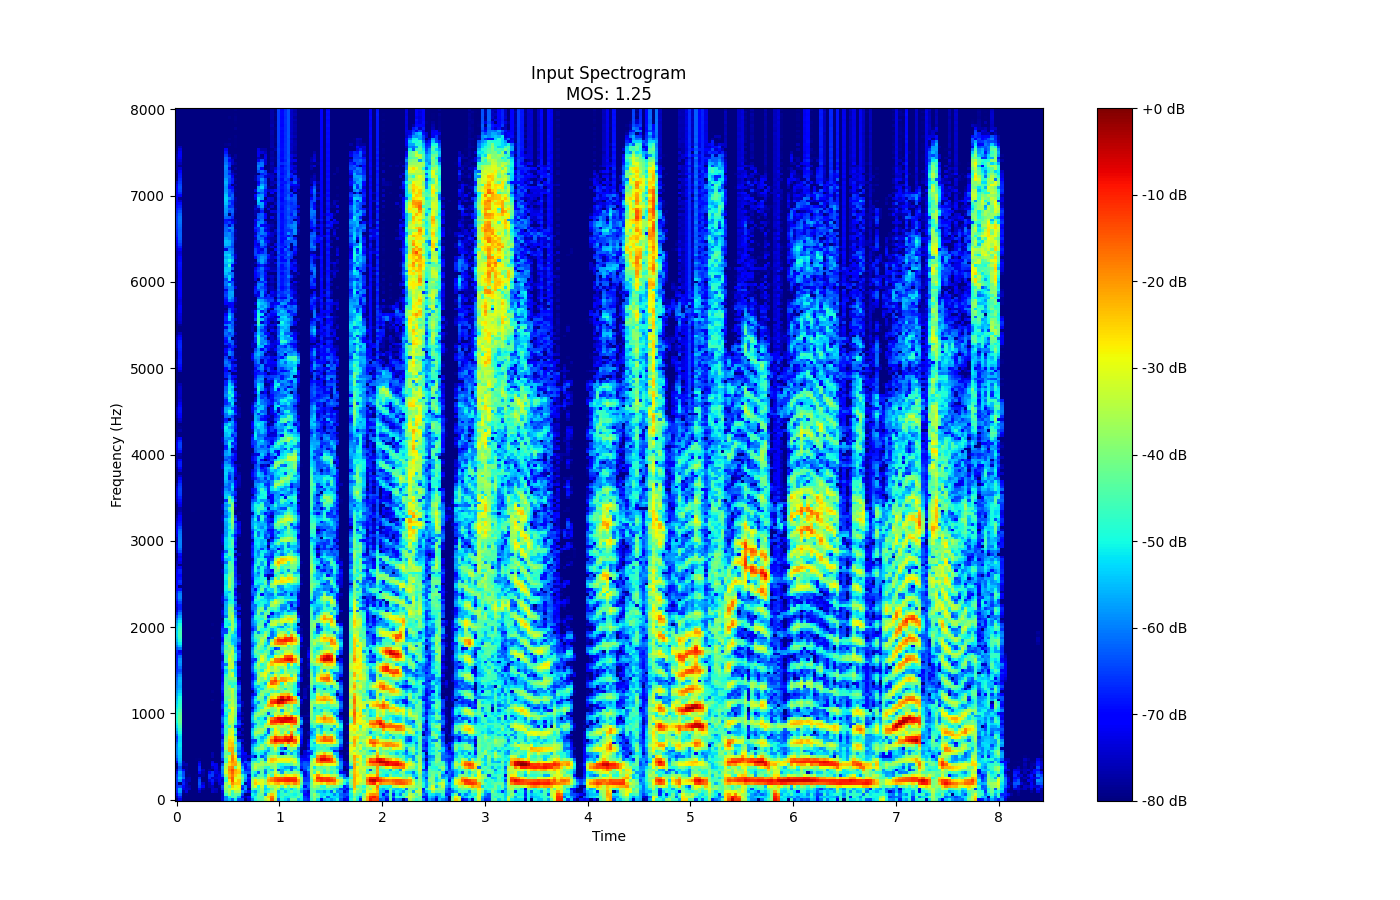
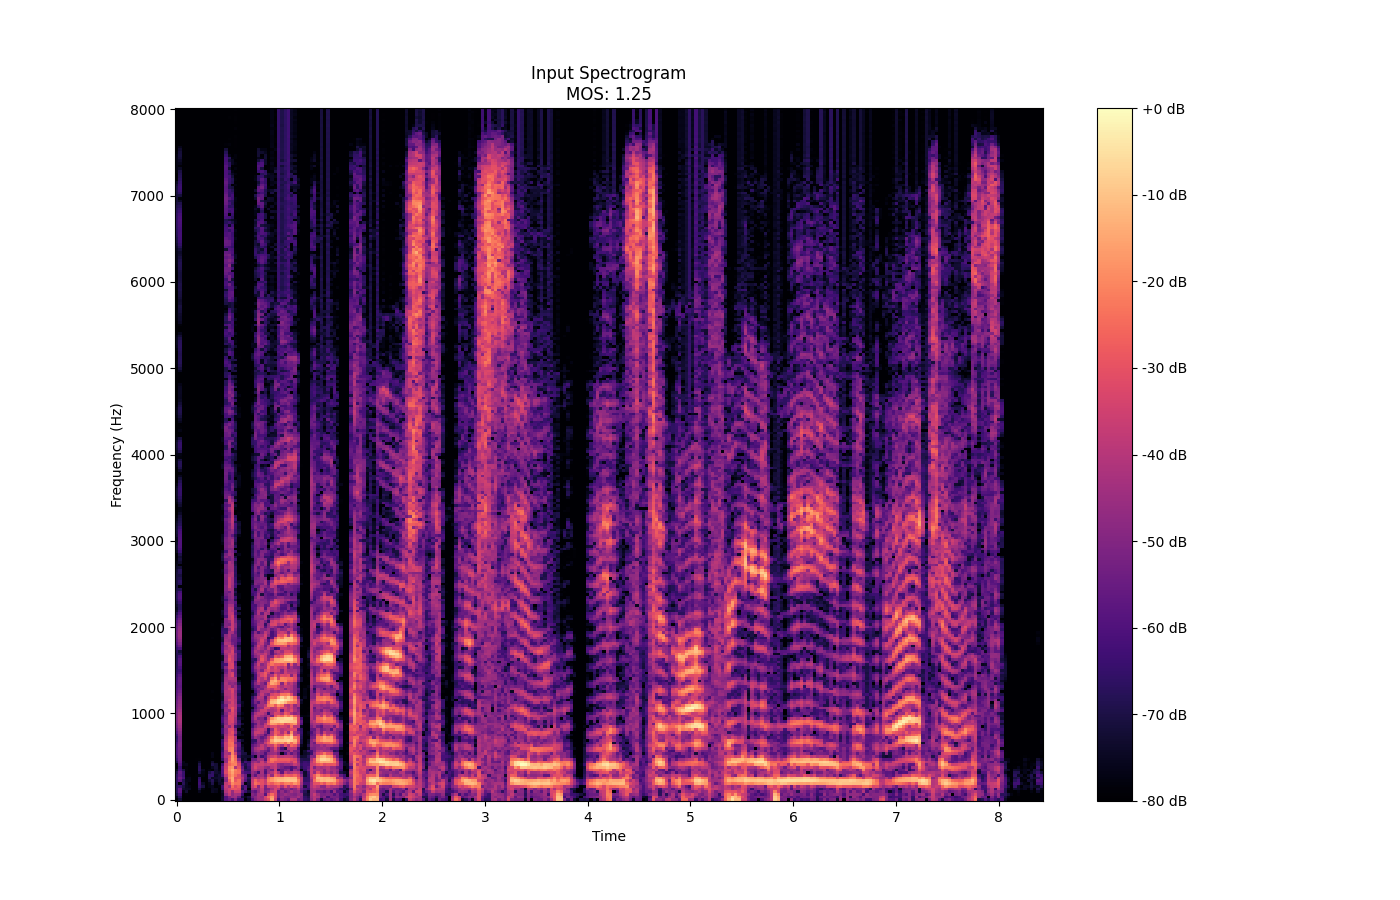
Update heatmap example script.

diff --git a/generate_hm_single.py b/generate_hm_single.py
@@ -25,8 +25,8 @@ PRE_TRAINED_DIR = '/Users/adabarach/Documents/OSU/2023-2024/AU23/CSE 5539 - Khal
 def main():
     # pick a soundfile
     mos_list = utils.read_list(data_list_path)
-    filename = mos_list[0].split(',')[0]
-    true_mos = float(mos_list[0].split(',')[1])
+    filename = mos_list[1].split(',')[0]
+    true_mos = float(mos_list[1].split(',')[1])
     
     generate_heatmaps(true_mos, filename)   
 
@@ -45,7 +45,7 @@ def generate_heatmaps(y, filename):
     # render original heatmap
     spec, sr = utils.get_spectrograms(os.path.join(WAV_DIR,filename))
     spec = np.transpose(spec)       # utils transposes before returning
-    p1 = librosa.display.specshow(librosa.amplitude_to_db(spec,ref=np.max), cmap='jet',y_axis='linear', x_axis='time', sr=sr, ax=ax1)
+    p1 = librosa.display.specshow(librosa.amplitude_to_db(spec,ref=np.max),y_axis='linear', x_axis='time', sr=sr, ax=ax1)
     ax1.set_title('Input Spectrogram\nMOS: {}'.format(y))
     ax1.set_xlabel('Time')
     ax1.set_ylabel('Frequency (Hz)')
